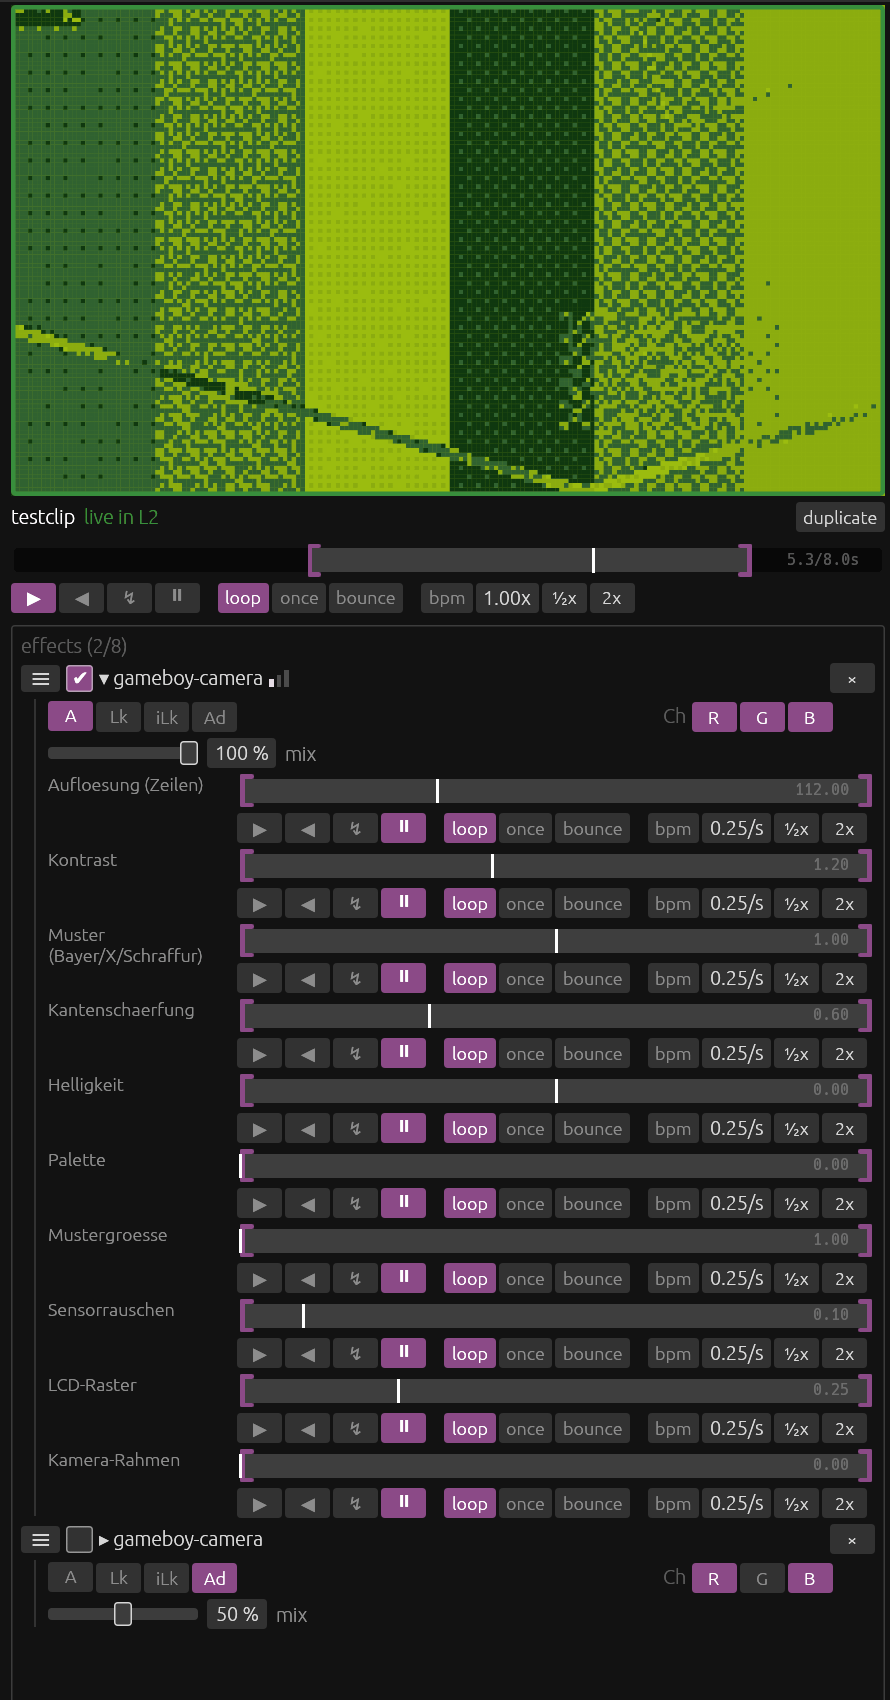
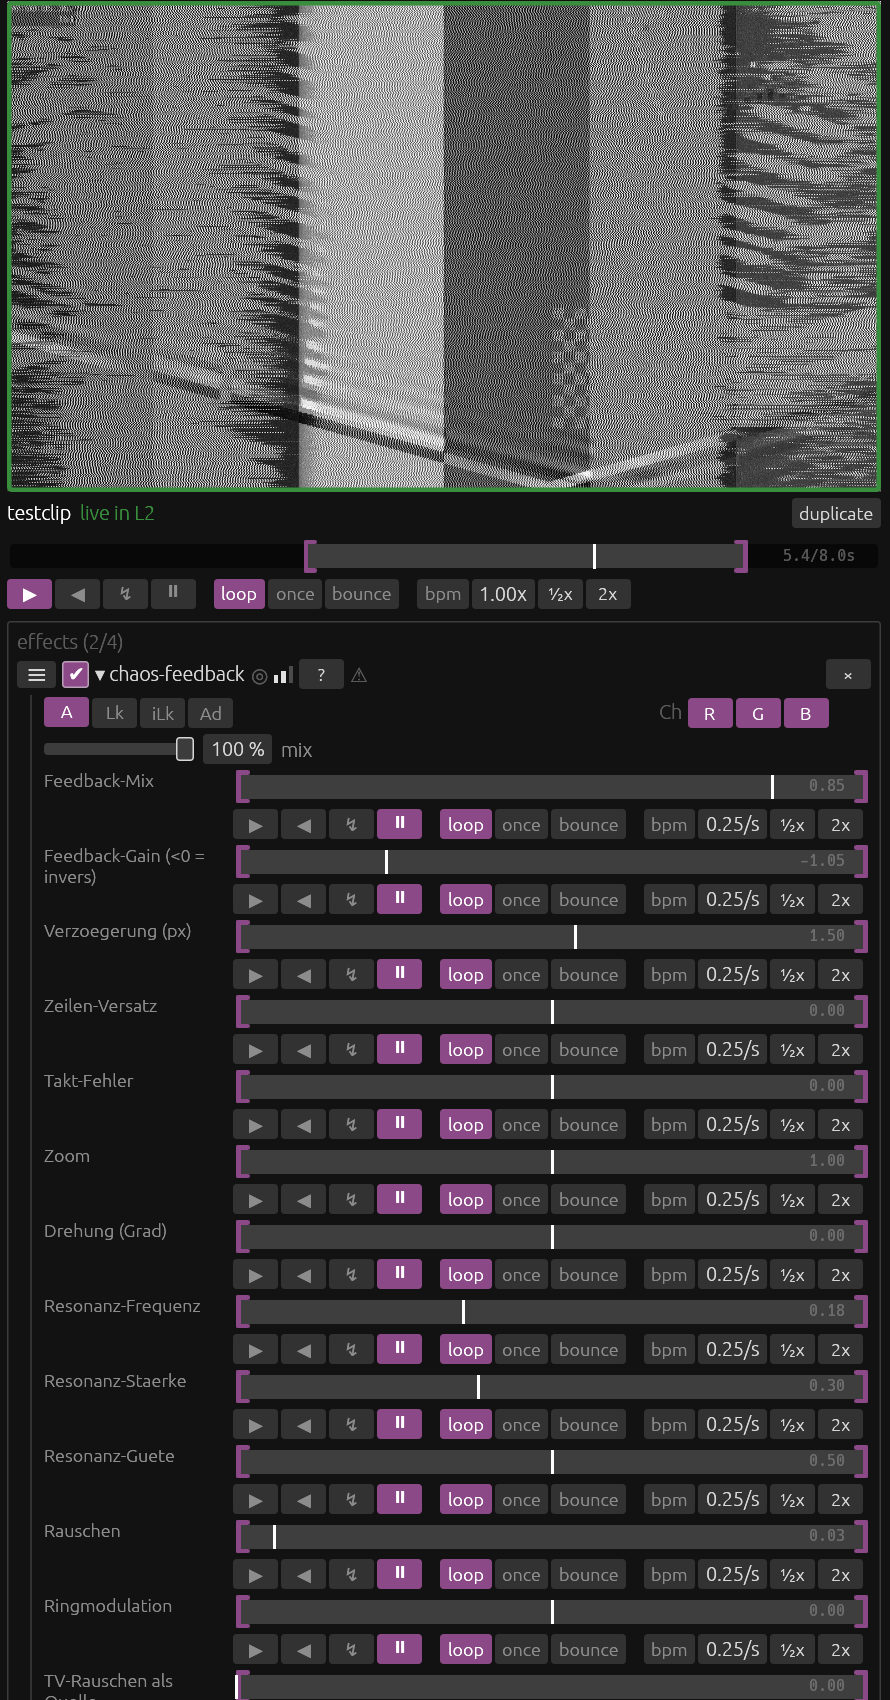
Manual screenshots updated: overview, top bar with tabs, detail with doc / focus markers, ai tab

diff --git a/manual.html b/manual.html
@@ -206,7 +206,7 @@ output:    mixer → output effects → freeze → brightness / blackout → scr
 <p>Four areas from left to right; all column borders can be dragged.</p>
 
 <h3 id="topbar">Top bar</h3>
-<figure><img src="docs/topbar.png" width="650" alt="top bar: totals, fps counter, session file, new / save / load"></figure>
+<figure><img src="docs/topbar.png" width="970" alt="top bar: tabs, totals, fps counter, session file, new / save / load"></figure>
 <ul>
   <li>Tabs: <span class="b on">live</span> (everything in this chapter),
     <span class="b">midi mapping</span> (<a href="#mapping">MIDI controllers</a>) and
@@ -286,7 +286,7 @@ output:    mixer → output effects → freeze → brightness / blackout → scr
       <li>the <b>effect stack</b> (see <a href="#effects">Effects</a>)</li>
     </ul>
   </div>
-  <figure><img src="docs/detail.png" width="445" alt="prepare detail: preview, clip controls, effects"></figure>
+  <figure><img src="docs/detail.png" width="445" alt="prepare detail: preview, clip controls, effects with ◎ (Twister focus), ? (documentation) and ⚠ (warning)"></figure>
 </div>
 
 <h3 id="mixer">Column 4: mixer and output</h3>
@@ -618,6 +618,7 @@ assistant outside, like Claude Code, connected through the MCP server.</p>
 <h3 id="aitab">The ai tab</h3>
 <p>A chat inside videoping. Type what you want; the assistant uses the tools below directly, and
 every tool call is listed in the chat with its result. The output preview is on the right.</p>
+<figure><img src="docs/ai.png" width="1500" alt="the ai tab: provider, model, key; the chat with a set (undo) and a frame; output preview"></figure>
 <ul>
   <li><b>Provider</b>: <span class="b on">Anthropic</span> (Claude) or <span class="b">OpenAI-compatible</span>:
     OpenAI, or a model on your own computer with <b>Ollama</b> (url

diff --git a/src/app.rs b/src/app.rs
@@ -3213,7 +3213,11 @@ impl App {
             if secs > 2.0 && STEP.load(Ordering::Relaxed) == 0 {
                 STEP.store(1, Ordering::Relaxed);
                 self.ai_selftest_send("dim the output to half and look at it");
-            } else if secs > 5.5 && STEP.load(Ordering::Relaxed) == 1 {
+            } else if secs > 4.0 && STEP.load(Ordering::Relaxed) == 1 {
+                // the chat is done: no mock url in the screenshot (4.5 s)
+                self.cfg.ai_url_anthropic.clear();
+                STEP.store(3, Ordering::Relaxed);
+            } else if secs > 5.5 && STEP.load(Ordering::Relaxed) == 3 {
                 STEP.store(2, Ordering::Relaxed);
                 eprintln!("selftest ai: brightness = {:.2} (expected 0.50); chat: {}", self.s.master.brightness, self.ai_selftest_summary());
             }
